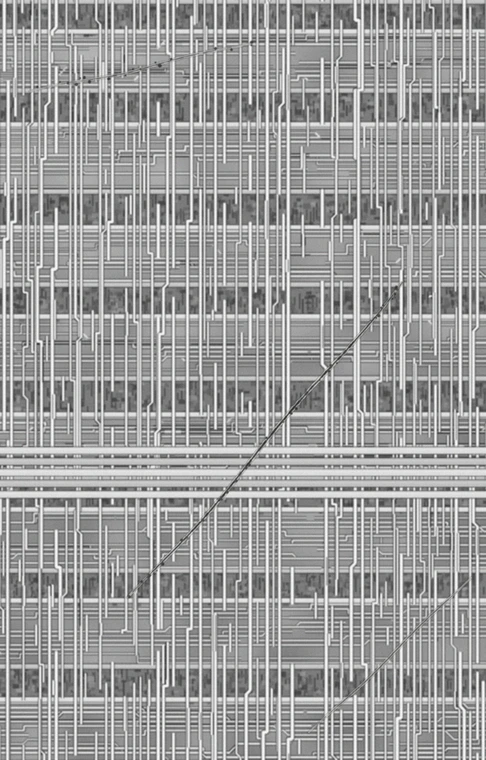
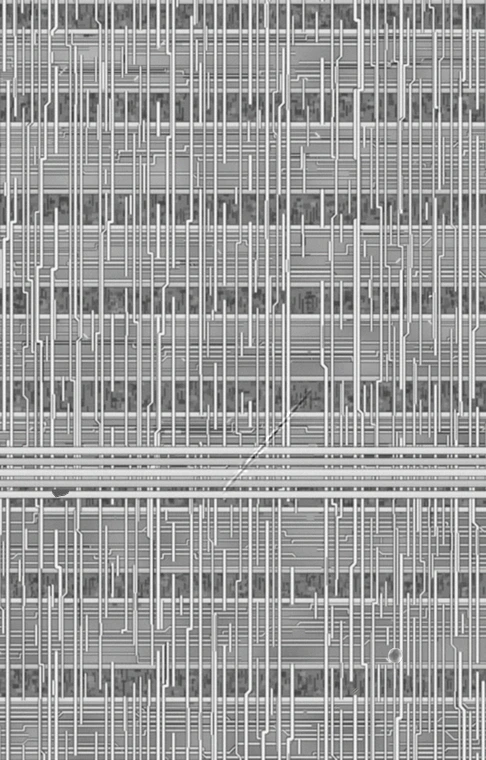
Add files via upload

diff --git a/data.js b/data.js
@@ -1,19 +1,22 @@
 // 6 張晶片電路圖與瑕疵位置。
 // 圖是同一張底圖做出來的（486 × 760，直式）。
 // 第 1–5 張的瑕疵位置是拿每張圖跟第 6 張逐點比對、找出不一樣的地方定出來的。
+// 2026-11-04 第 1、2、4、5 張換成瑕疵比較像真的新圖（第 3 張沿用舊圖）。
+// 彎曲或分岔的瑕疵（裂痕、弧形刮痕）沿著瑕疵鋪一串小圓；直的刮痕用一段膠囊；點狀用一個圓。
 // 第 6 張的瑕疵小到這張圖上看不到（要放大才看得到），老師公布答案時用放大圖揭曉。
 // 座標是原圖像素。每個瑕疵由一或多段「膠囊」組成：[x1, y1, x2, y2, 半徑]，兩端點相同就是圓。
 // 長條刮痕用線段沿著刮痕走，點在刮痕附近就算找到。半徑 24 在 iPad 上約等於手指寬。
 
 export const CHIPS = [
   { w: 486, h: 760, defects: [
-    [[274, 618, 485, 515, 20], [370, 545, 397, 560, 14]],   // 右下的裂痕（含中間往上的小分岔）
-    [[150, 235, 150, 262, 62]],   // 左上的暗色污漬（上下比較長，用直立的膠囊蓋住）
+    [[361, 576, 361, 576, 17], [373, 573, 373, 573, 17], [369, 575, 369, 575, 17], [382, 572, 382, 572, 17], [377, 574, 377, 574, 17], [394, 567, 394, 567, 17], [407, 557, 407, 557, 17], [405, 562, 405, 562, 17], [419, 547, 419, 547, 17], [413, 551, 413, 551, 17], [418, 562, 418, 562, 17], [431, 561, 431, 561, 17], [428, 562, 428, 562, 17]],   // 裂痕
+    [[150, 248, 150, 248, 28]],   // 亮色污漬
+    [[339, 170, 339, 170, 22]],   // 白色顆粒
   ]},
   { w: 486, h: 760, defects: [
-    [[34, 91, 251, 43, 20]],      // 上方很淡的長刮痕
-    [[133, 596, 400, 286, 20]],   // 中間的長刮痕
-    [[313, 729, 469, 578, 20]],   // 右下的刮痕
+    [[307, 394, 226, 487, 18]],   // 斜刮痕
+    [[59, 493, 59, 493, 22]],   // 黑色殘留
+    [[394, 655, 394, 655, 22]],   // 圓形顆粒
   ]},
   { w: 486, h: 760, defects: [
     [[130, 205, 130, 205, 24]],   // 左上很淡的透明殘留
@@ -23,14 +26,14 @@ export const CHIPS = [
     [[438, 118, 438, 118, 24]],   // 右上小黑點
   ]},
   { w: 486, h: 760, defects: [
-    [[117, 137, 117, 137, 30]],   // 灰塵（大）
-    [[371, 452, 371, 452, 24]],   // 灰塵（中）
-    [[232, 646, 232, 646, 24]],   // 灰塵（小）
+    [[117, 139, 117, 139, 22]],   // 黑色顆粒
+    [[385, 435, 385, 435, 22]],   // 多出來的金屬塊
+    [[234, 649, 234, 649, 23]],   // 短刮痕
   ]},
   { w: 486, h: 760, defects: [
-    [[338, 656, 338, 656, 24]],   // 兩條線黏在一起
-    [[259, 81, 259, 81, 24]],
-    [[182, 592, 182, 592, 24]],
+    [[262, 81, 262, 81, 22]],   // 兩條線黏在一起
+    [[322, 664, 322, 664, 17], [320, 669, 320, 669, 17], [334, 653, 334, 653, 17], [327, 659, 327, 659, 17], [332, 680, 332, 680, 17], [338, 650, 338, 650, 17], [344, 664, 344, 664, 17], [339, 671, 339, 671, 17], [351, 660, 351, 660, 17]],   // 兩道弧形刮痕
+    [[174, 471, 174, 471, 22]],   // 半圓形缺口
   ]},
   // 第 6 張：放大圖（img/chip6-zoom.png）是另外畫的特寫，不是從這張裁出來的，
   // 所以位置是挑一個跟特寫結構相同的地方：直線上、緊貼條紋帶上方。
@@ -42,7 +45,7 @@ export const CHIPS = [
     ]},
 ];
 
-export const TOTAL_DEFECTS = CHIPS.reduce((n, c) => n + c.defects.length, 0); // 17
+export const TOTAL_DEFECTS = CHIPS.reduce((n, c) => n + c.defects.length, 0); // 18
 
 export const PTS_RIGHT = 100;
 export const PTS_WRONG = 30;

diff --git a/server.py b/server.py
@@ -81,7 +81,7 @@ class Handler(SimpleHTTPRequestHandler):
         super().__init__(*a, directory=ROOT, **kw)
 
     def log_message(self, fmt, *args):
-        if "/api/" not in (args[0] if args else ""):
+        if "/api/" not in str(args[0] if args else ""):
             super().log_message(fmt, *args)
 
     def end_headers(self):

diff --git a/HANDOVER.md b/HANDOVER.md
@@ -97,15 +97,15 @@ python3 server.py --lan
 
 ## 6. 圖片與瑕疵清單
 
-6 張圖由使用者在 2026-10-18 提供（取代原本從簡報抽出的圖），共 17 個瑕疵：
+6 張圖由使用者在 2026-10-18 提供（取代原本從簡報抽出的圖）；2026-11-04 第 1、2、4、5 張換成瑕疵比較像真實晶片瑕疵的新圖（同一張底圖），共 18 個瑕疵：
 
 | 張 | 瑕疵 |
 |---|---|
-| 1 | 右下的裂痕、左上的暗色污漬 |
-| 2 | 三條刮痕（上方那條很淡） |
+| 1 | 右下的裂痕（帶分岔）、左上的亮色污漬、上方的白色顆粒 |
+| 2 | 斜刮痕（邊緣一亮一暗）、左邊的黑色殘留、右下的圓形顆粒 |
 | 3 | 左上很淡的透明殘留、短刮痕、白色顆粒、兩個小黑點 |
-| 4 | 三顆灰塵（大、中、小） |
-| 5 | 三處兩條線黏在一起 |
+| 4 | 左上的黑色顆粒、右邊多出來的金屬塊、下方的短刮痕 |
+| 5 | 上方兩條線黏在一起、右下兩道弧形刮痕、中間的半圓形缺口 |
 | 6 | 一顆小到這張圖上看不到的灰塵（只有特寫圖看得到） |
 
 第 1 張的暗色污漬和第 3 張的透明殘留是刻意畫的瑕疵（2026-10-18 跟作者確認過），不是生成圖片時多出來的，不要刪。
@@ -157,3 +157,4 @@ python3 server.py --lan
 
 **換圖或改學生頁時請記得**：不要再用「改同一個 `<img>` 的網址」來換張，教室網路慢的時候一定會出現舊圖。
 - 2026-11-03　加入「為什麼找不完？」文字雲（頒獎台下一頁）；規則檔改成跟晶片懸案同一份合併版；網址加 `?local` 可強制用本機伺服器
+- 2026-11-04　第 1、2、4、5 張換成使用者提供的新圖（瑕疵更像真的），點擊範圍重新用逐點比對定出；第 2 張下方一個肉眼看不到的雜點用底圖蓋掉。舊圖備份在 `桌面/LIS/github/_舊圖備份/2026-11-04/`
